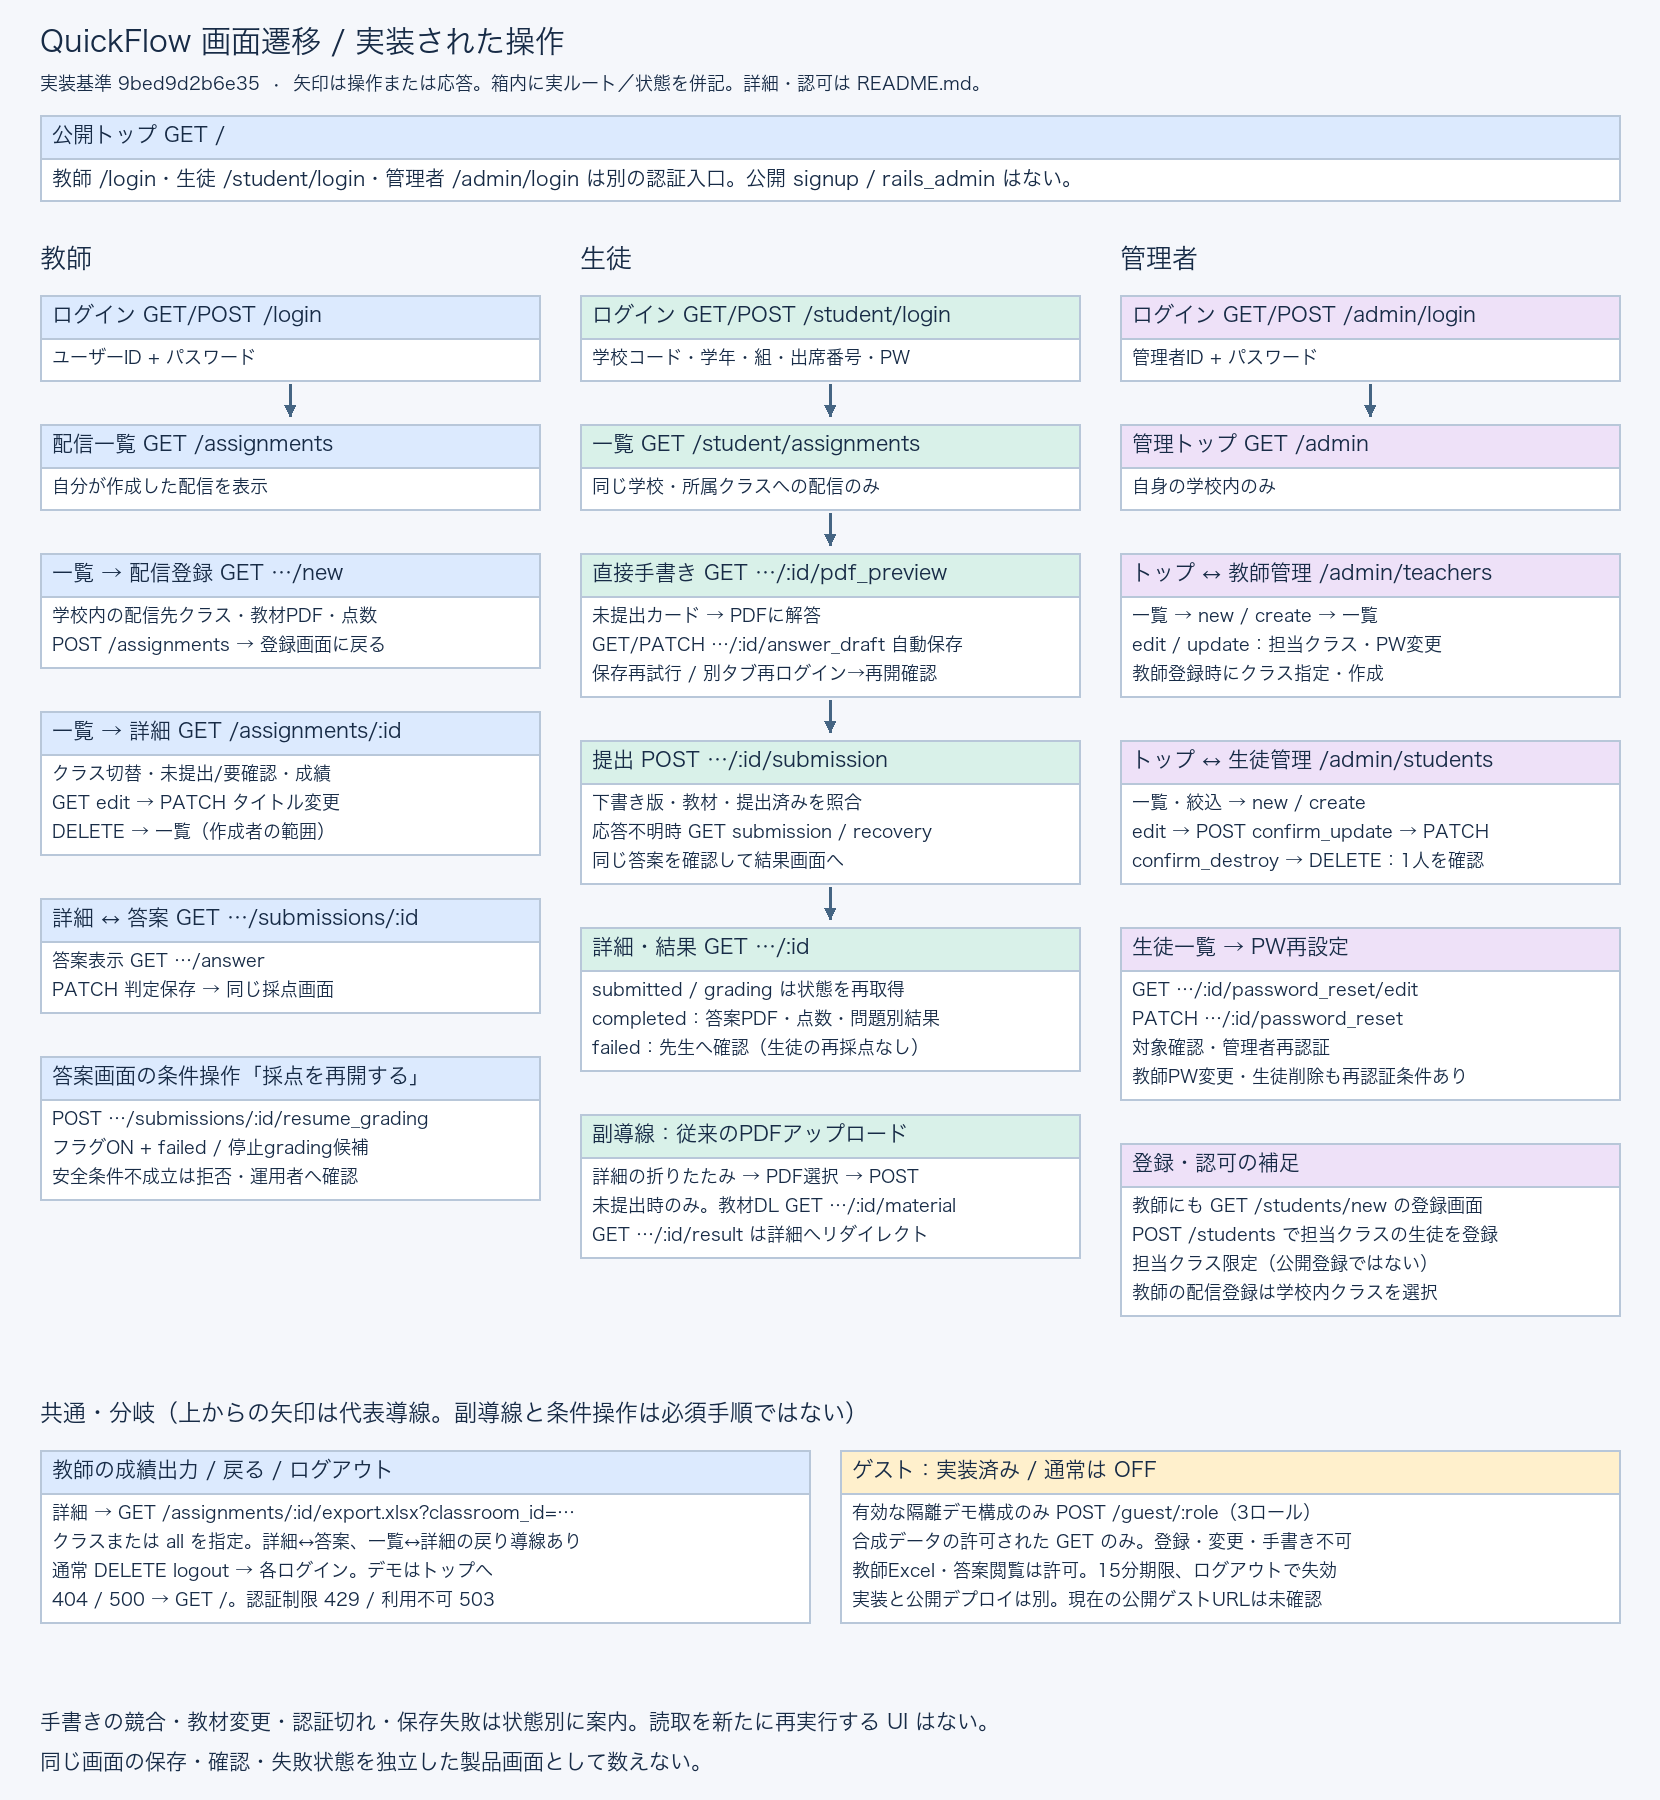
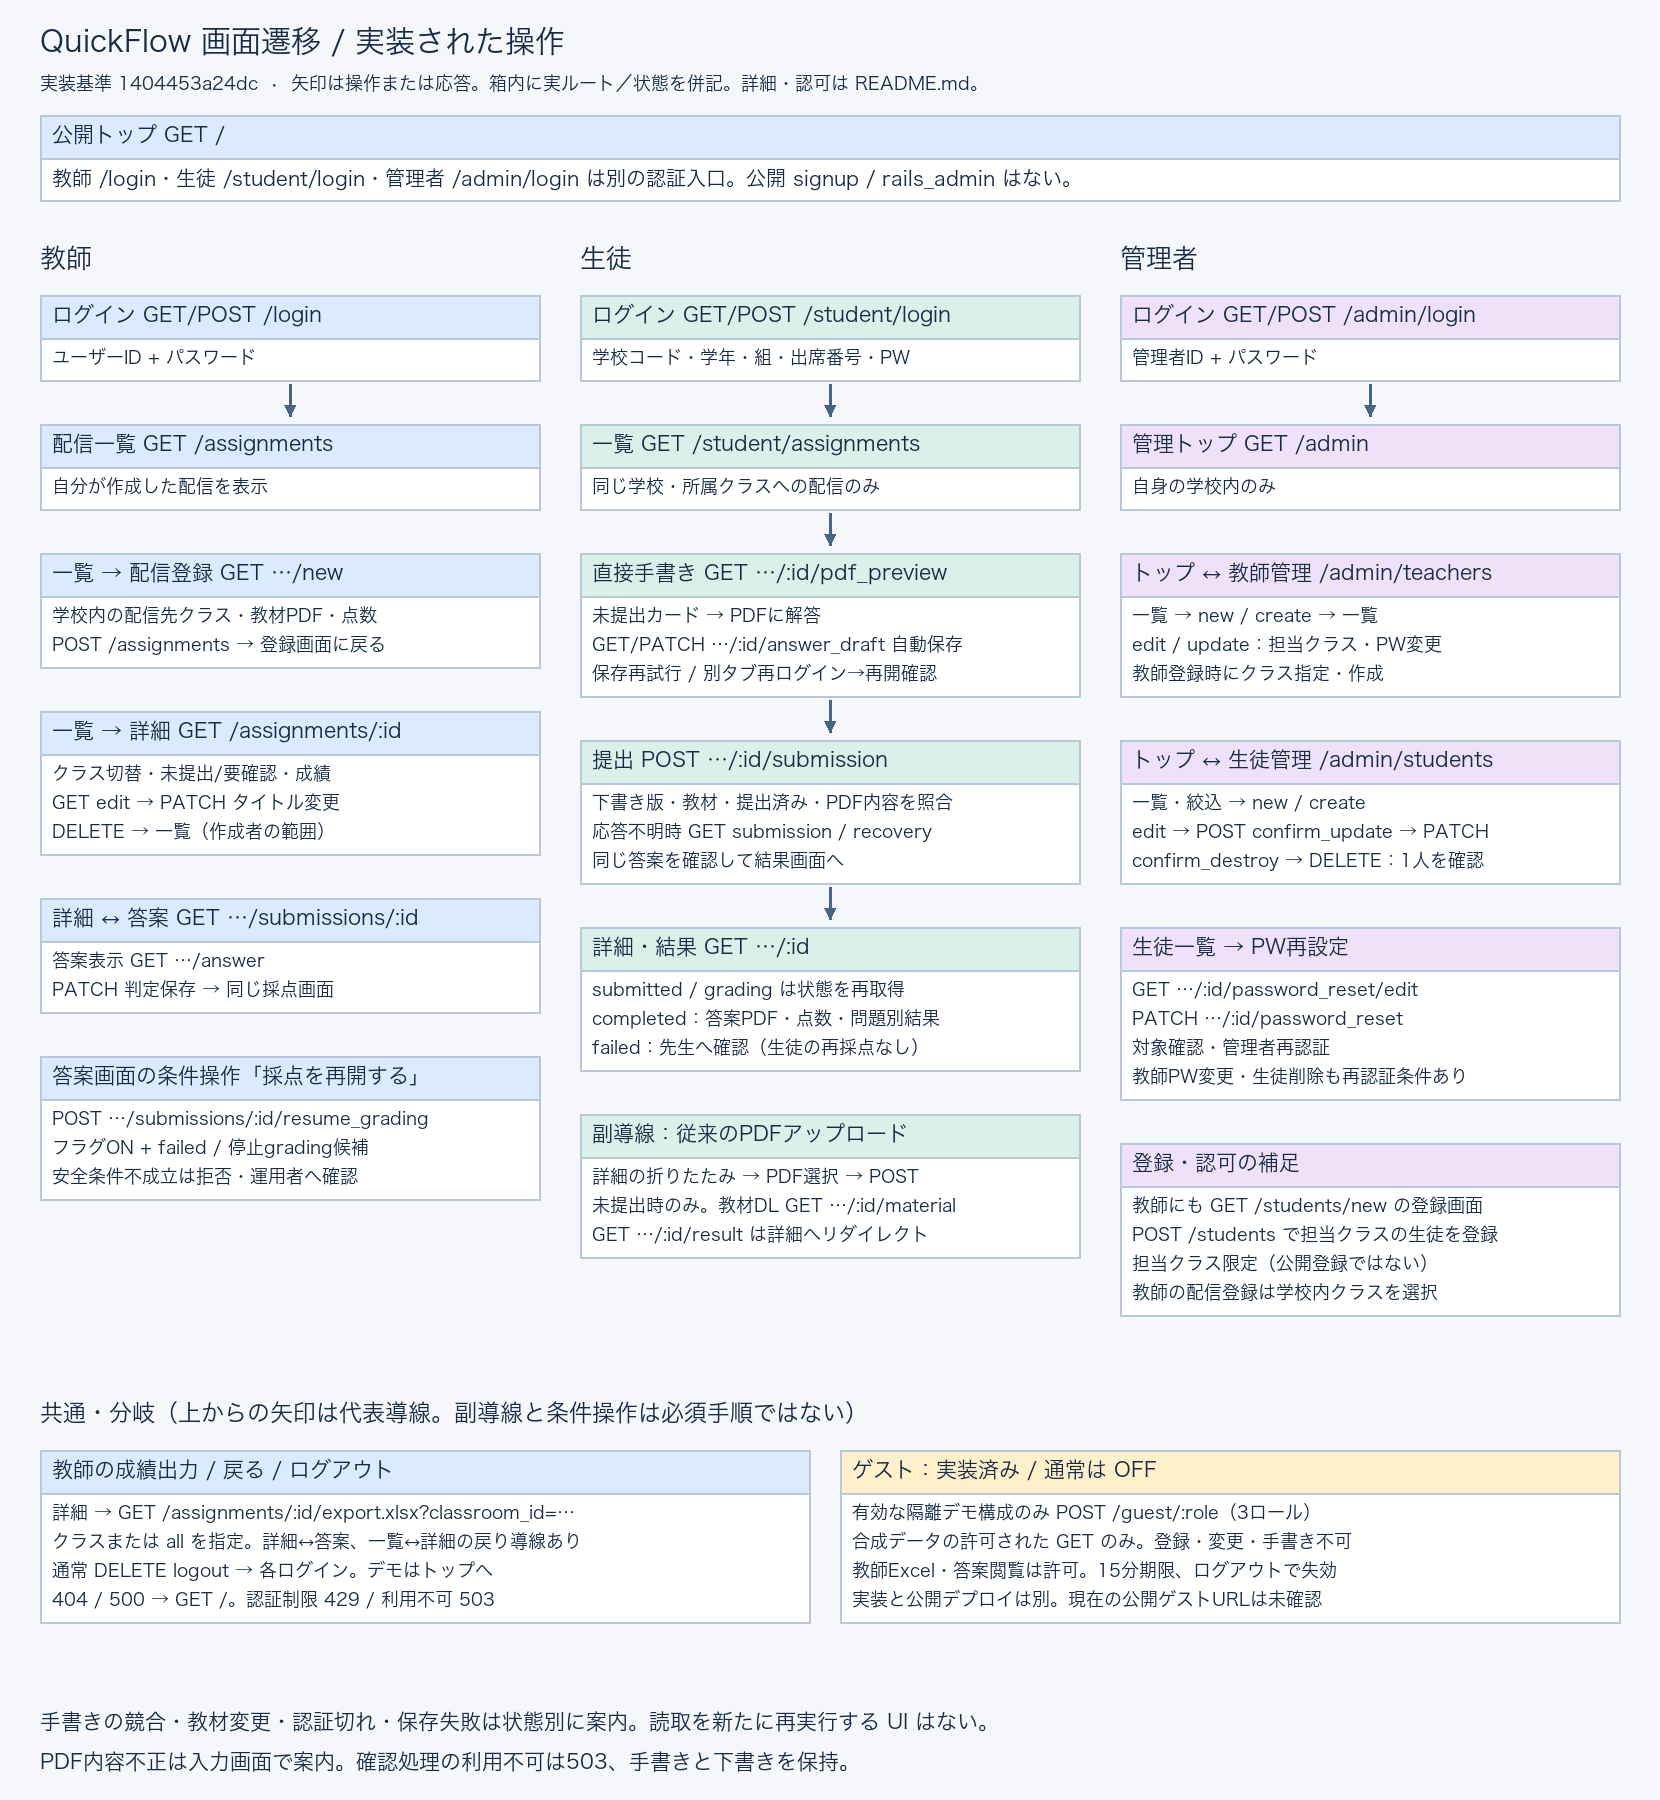
docs: refresh design baseline to merged PDF validation changes

diff --git a/docs/design/build_diagrams.py b/docs/design/build_diagrams.py
@@ -12,7 +12,7 @@ from PIL import Image, ImageDraw, ImageFont
 ROOT = Path(__file__).resolve().parents[2]
 OUT = ROOT / 'docs/design'
 FONT = os.environ.get('DIAGRAM_FONT', '/System/Library/Fonts/ヒラギノ角ゴシック W3.ttc')
-BASELINE = '9bed9d2b6e35e89e51b8d76d1aa76df3e9f01b41'
+BASELINE = '1404453a24dce4f3661a7c6aee7fc570e8f6b683'
 labels = {'schools':'学校','admins':'管理者','teachers':'教師','classrooms':'クラス','students':'生徒','teacher_classrooms':'担当クラス','assignments':'小テスト・配信','assignment_classrooms':'配信先','answer_drafts':'答案下書き','questions':'設問・正答','submissions':'提出答案','grading_results':'採点結果','question_generation_requests':'正答生成要求','authentication_attempt_buckets':'認証制限・ゲスト有効期限','active_storage_attachments':'添付','active_storage_blobs':'ファイル情報','active_storage_variant_records':'派生画像'}
 def digest(path): return hashlib.sha256((ROOT/path).read_bytes()).hexdigest()
 def schema():
@@ -101,7 +101,7 @@ def screens():
        ('ログイン GET/POST /student/login',['学校コード・学年・組・出席番号・PW']),
        ('一覧 GET /student/assignments',['同じ学校・所属クラスへの配信のみ']),
        ('直接手書き GET …/:id/pdf_preview',['未提出カード → PDFに解答','GET/PATCH …/:id/answer_draft 自動保存','保存再試行 / 別タブ再ログイン→再開確認']),
-       ('提出 POST …/:id/submission',['下書き版・教材・提出済みを照合','応答不明時 GET submission / recovery','同じ答案を確認して結果画面へ']),
+       ('提出 POST …/:id/submission',['下書き版・教材・提出済み・PDF内容を照合','応答不明時 GET submission / recovery','同じ答案を確認して結果画面へ']),
        ('詳細・結果 GET …/:id',['submitted / grading は状態を再取得','completed：答案PDF・点数・問題別結果','failed：先生へ確認（生徒の再採点なし）']),
        ('副導線：従来のPDFアップロード',['詳細の折りたたみ → PDF選択 → POST','未提出時のみ。教材DL GET …/:id/material','GET …/:id/result は詳細へリダイレクト'])]),
       ('管理者',1120,'#eee1f8',[
@@ -130,7 +130,7 @@ def screens():
       '教師Excel・答案閲覧は許可。15分期限、ログアウトで失効',
       '実装と公開デプロイは別。現在の公開ゲストURLは未確認'], '#fff0cc',18)
     c.text(40,1710,'手書きの競合・教材変更・認証切れ・保存失敗は状態別に案内。読取を新たに再実行する UI はない。',21)
-    c.text(40,1750,'同じ画面の保存・確認・失敗状態を独立した製品画面として数えない。',21)
+    c.text(40,1750,'PDF内容不正は入力画面で案内。確認処理の利用不可は503、手書きと下書きを保持。',21)
     c.save('screen_transition')
 def details(t):
     data={'baseline_commit':BASELINE,'schema_sha256':digest('db/schema.rb'),'routes_sha256':digest('config/routes.rb'),'tables':t,'model_only_constraints':['same school for teacher_classrooms / assignment_classrooms','submission assignment distributed to student classroom','grading_result question belongs to submission assignment','Assignment current request belongs to same assignment'],'not_database_foreign_keys':['question_generation_requests.material_blob_id','active_storage_attachments.record_type + record_id'],'issue46_refresh':'pending: inspect merged main before final acceptance; no pending Submission claim attributes represented'}

diff --git a/docs/design/schema_reference.md b/docs/design/schema_reference.md
@@ -1,6 +1,6 @@
 # 現行スキーマの全属性と制約
 
-基準 commit: `9bed9d2b6e35e89e51b8d76d1aa76df3e9f01b41`。`db/schema.rb` のみから生成。モデル検証とは区別する。
+基準 commit: `1404453a24dce4f3661a7c6aee7fc570e8f6b683`。`db/schema.rb` のみから生成。モデル検証とは区別する。
 
 NULL 可は明示。`options` は型の長さ・default 等を原文で保持。業務表と ActiveStorage は同一 DB の定義。
 
